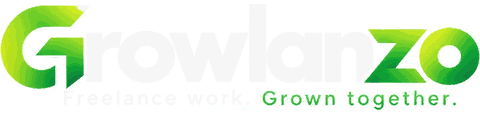
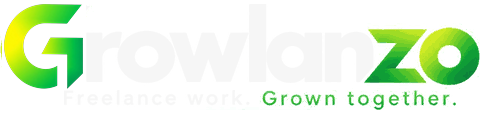
feat(brand): install the final Growlanzo mark and contact address
The supplied artwork is the finished "G" — a single yellow→green gradient,
where the shipped lockups still carried the older faceted glyph. The mark is now
the source of the app icon set (32/64/192/512, opaque apple-touch plate), the
PWA manifest, the social card, and the G inside all four wordmark/full lockups;
the letterforms around it are untouched, so header geometry and intrinsic sizes
stay identical. Cache-busters move to v7 so returning visitors see it.

The brand mailbox is now growlanzo.own@gmail.com — updated in the footer, legal
pages, report form, unsubscribe page, every Supabase function (including the
Brevo sender default) and the docs that quote it.

🤖 Generated with Codebuff

Changed region(s): [[0.0, 0.0265, 0.1875, 0.7965]]

diff --git a/supabase/functions/email-notifications/index.ts b/supabase/functions/email-notifications/index.ts
@@ -206,7 +206,7 @@ function buildWithdrawalFailedHtml(name: string, amount: number, reason: string)
       </td></tr>
     </table>
     <p style="font-size: 14px; color: #64748b; line-height: 1.7; margin: 0;">
-      If the issue persists, please <a href="mailto:growlancer.own@gmail.com" style="color: #14861f; font-weight: 600;">contact support</a>.
+      If the issue persists, please <a href="mailto:growlanzo.own@gmail.com" style="color: #14861f; font-weight: 600;">contact support</a>.
     </p>`
   return baseEmailHtml('Withdrawal Failed 💔', body)
 }
@@ -280,7 +280,7 @@ function buildDisputeResolvedHtml(name: string, disputeId: string, resolution: s
       </td></tr>
     </table>
     <p style="font-size: 14px; color: #64748b; line-height: 1.7; margin: 0;">
-      If you have any questions about this resolution, please <a href="mailto:growlancer.own@gmail.com" style="color: #14861f; font-weight: 600;">contact our support team</a>.
+      If you have any questions about this resolution, please <a href="mailto:growlanzo.own@gmail.com" style="color: #14861f; font-weight: 600;">contact our support team</a>.
     </p>`
   return baseEmailHtml(isFavorable ? 'Dispute Resolved ✅' : 'Dispute Updated 💙', body)
 }
@@ -436,7 +436,7 @@ function buildAccountSuspendedHtml(name: string, reason?: string): string {
       During this time, you will not be able to access your dashboard, submit proposals, or communicate with clients.
     </p>
     <p style="font-size: 14px; color: #64748b; line-height: 1.7; margin: 0;">
-      If you believe this was done in error or would like more information, please <a href="mailto:growlancer.own@gmail.com" style="color: #14861f; font-weight: 600;">contact our support team</a>.
+      If you believe this was done in error or would like more information, please <a href="mailto:growlanzo.own@gmail.com" style="color: #14861f; font-weight: 600;">contact our support team</a>.
     </p>`
   return baseEmailHtml('Account Suspended ⚠', body)
 }

diff --git a/supabase/functions/admin-data/index.ts b/supabase/functions/admin-data/index.ts
@@ -659,7 +659,7 @@ Deno.serve(async (req) => {
 
     // ─── POST: test_email — sends a live Brevo test email ──
     if (req.method === 'POST' && action === 'test_email') {
-      const testTo = body?.to || 'growlancer.own@gmail.com'
+      const testTo = body?.to || 'growlanzo.own@gmail.com'
       const sent = await sendNotificationEmail('Growlanzo Test Email ✅', '<p>This is a test email from Growlanzo via Brevo.</p>', { email: testTo, name: 'Test' })
       return new Response(JSON.stringify({ success: sent, error: sent ? undefined : 'Email delivery failed (Brevo not configured or API error)' }), {
         status: 200, headers: { ...corsHeaders, 'Content-Type': 'application/json' },
@@ -676,7 +676,7 @@ Deno.serve(async (req) => {
         });
       }
 
-      const ADMIN_EMAIL = 'growlancer.own@gmail.com';
+      const ADMIN_EMAIL = 'growlanzo.own@gmail.com';
 
       // Build details table HTML
       let detailsHtml = '';
@@ -843,7 +843,7 @@ Deno.serve(async (req) => {
             <tr>
               <td style="padding: 8px 16px; background: #faf5ff; border-radius: 8px;">
                 <p style="font-size: 11px; color: #6d28d9; margin: 0;">
-                  🌐 ${APP_URL} &nbsp;|&nbsp; ✉ growlancer.own@gmail.com
+                  🌐 ${APP_URL} &nbsp;|&nbsp; ✉ growlanzo.own@gmail.com
                 </p>
               </td>
             </tr>
@@ -916,7 +916,7 @@ Deno.serve(async (req) => {
             <tr>
               <td style="padding: 8px 16px; background: #f1fcef; border-radius: 8px;">
                 <p style="font-size: 11px; color: #10591a; margin: 0;">
-                  🌐 ${APP_URL} &nbsp;|&nbsp; ✉ growlancer.own@gmail.com
+                  🌐 ${APP_URL} &nbsp;|&nbsp; ✉ growlanzo.own@gmail.com
                 </p>
               </td>
             </tr>

diff --git a/src/pages/TermsPage.tsx b/src/pages/TermsPage.tsx
@@ -337,7 +337,7 @@ const termsSections: Section[] = [
             These Terms of Service shall be governed by and construed in accordance with the laws of India, without regard to conflict of law principles.
           </p>
           <p className="text-slate-600 leading-relaxed mb-2">
-            Growlanzo is operated by <strong>Muhammad (Founder &amp; CEO)</strong>, India. For legal notices, grievances, or complaints, contact our grievance officer at <a href="mailto:growlancer.own@gmail.com" className="text-emerald-600 font-medium hover:underline">growlancer.own@gmail.com</a>. We acknowledge grievances within 24 hours and aim to resolve them within 15 days, in line with the Information Technology (Intermediary Guidelines and Digital Media Ethics Code) Rules, 2021.
+            Growlanzo is operated by <strong>Muhammad (Founder &amp; CEO)</strong>, India. For legal notices, grievances, or complaints, contact our grievance officer at <a href="mailto:growlanzo.own@gmail.com" className="text-emerald-600 font-medium hover:underline">growlanzo.own@gmail.com</a>. We acknowledge grievances within 24 hours and aim to resolve them within 15 days, in line with the Information Technology (Intermediary Guidelines and Digital Media Ethics Code) Rules, 2021.
           </p>
           <p className="text-slate-600 leading-relaxed mb-2">
             If any provision of these Terms is deemed invalid or unenforceable, that specific clause shall be severed, and the remaining provisions shall continue in full force and effect.

diff --git a/pages/+Head.tsx b/pages/+Head.tsx
@@ -3,11 +3,13 @@ import React from 'react';
 export default function Head() {
   return (
     <>
-      {/* ── Favicon + app icon — the Growlanzo ring mark (public/UpdatedLogo.*).
-           `?v=` busts the cached copy some returning visitors still hold. ── */}
-      <link rel="icon" type="image/webp" sizes="32x32" href="/UpdatedLogo.webp?v=6" />
-      <link rel="apple-touch-icon" sizes="180x180" href="/UpdatedLogo.png?v=6" />
-      <link rel="shortcut icon" href="/UpdatedLogo.png?v=6" />
+      {/* ── Favicon + app icon — the final Growlanzo "G" (public/UpdatedLogo.*,
+           public/apple-touch-icon.png). `?v=` busts the cached copy some
+           returning visitors still hold, so a rebrand actually reaches them. ── */}
+      <link rel="icon" type="image/webp" sizes="32x32" href="/UpdatedLogo.webp?v=7" />
+      <link rel="icon" type="image/png" sizes="64x64" href="/favicon-growlanzo.png?v=7" />
+      <link rel="apple-touch-icon" sizes="180x180" href="/apple-touch-icon.png?v=7" />
+      <link rel="shortcut icon" href="/UpdatedLogo.png?v=7" />
 
       {/* ── Mobile viewport — CRITICAL: without this, phones fall back to the
           980px desktop layout viewport and the whole site renders zoomed-out

diff --git a/supabase/functions/internship-applications/index.ts b/supabase/functions/internship-applications/index.ts
@@ -1,7 +1,7 @@
 // Internship Applications Edge Function
 // Handles new internship application submissions & status updates
 // Sends real email notifications (email service currently disabled):
-//   1) Admin notification to growlancer.own@gmail.com
+//   1) Admin notification to growlanzo.own@gmail.com
 //   2) Confirmation email to applicant
 //   3) Status change emails (shortlisted, interview, selected, rejected)
 
@@ -12,7 +12,7 @@ import { SITE_URL } from '../_shared/site.ts'
 import { featureDisabledResponse, isFeatureEnabled } from '../_shared/features.ts'
 
 // Transactional email via Brevo (shared helper).
-const ADMIN_EMAIL = 'growlancer.own@gmail.com'
+const ADMIN_EMAIL = 'growlanzo.own@gmail.com'
 const APP_URL = SITE_URL
 
 const GITHUB_URL = 'https://github.com/Mrkhan154212/Growlancer'
@@ -229,7 +229,7 @@ function buildReceivedEmailHtml(data: ApplicationData): string {
   return baseEmailHtml('Application Received Successfully', body)
 }
 
-/** Admin Notification — sent to growlancer.own@gmail.com */
+/** Admin Notification — sent to growlanzo.own@gmail.com */
 function buildAdminEmailHtml(data: ApplicationData): string {
   const escapedName = escapeHtml(data.full_name);
   const escapedEmail = escapeHtml(data.email);

diff --git a/src/pages/PrivacyPage.tsx b/src/pages/PrivacyPage.tsx
@@ -216,7 +216,7 @@ const privacySections: Section[] = [
       content: (
         <>
           <p className="text-slate-600 leading-relaxed mb-2">
-            If you have questions, comments, or seek to file an appeal regarding the processing of data in a disputed contract workspace, please contact our designated Data Protection Officer (DPO): <strong>Muhammad (Founder &amp; CEO)</strong> at <a href="mailto:growlancer.own@gmail.com" className="text-emerald-600 font-medium hover:underline">growlancer.own@gmail.com</a>. We acknowledge privacy requests within 24 hours and aim to resolve them within 15 days.
+            If you have questions, comments, or seek to file an appeal regarding the processing of data in a disputed contract workspace, please contact our designated Data Protection Officer (DPO): <strong>Muhammad (Founder &amp; CEO)</strong> at <a href="mailto:growlanzo.own@gmail.com" className="text-emerald-600 font-medium hover:underline">growlanzo.own@gmail.com</a>. We acknowledge privacy requests within 24 hours and aim to resolve them within 15 days.
           </p>
           <div className="bg-slate-900 rounded-xl p-3 text-white flex flex-col sm:flex-row items-center justify-between gap-3 mt-6">
             <div>

diff --git a/src/test/launchSurfaceFixes.test.ts b/src/test/launchSurfaceFixes.test.ts
@@ -19,8 +19,8 @@ const OAUTH = read('src/components/OAuthButtons.tsx');
 const FOOTER = read('src/components/SiteFooter.tsx');
 
 describe('support mailbox', () => {
-  it('the footer shows growlancer.own@gmail.com', () => {
-    expect(FOOTER).toContain('growlancer.own@gmail.com');
+  it('the footer shows growlanzo.own@gmail.com', () => {
+    expect(FOOTER).toContain('growlanzo.own@gmail.com');
     expect(FOOTER).not.toContain('support@growlanzo.com');
   });
 
@@ -31,14 +31,14 @@ describe('support mailbox', () => {
   ]) {
     it(`${page} points at the Gmail inbox`, () => {
       const src = read(page);
-      expect(src).toContain('growlancer.own@gmail.com');
+      expect(src).toContain('growlanzo.own@gmail.com');
       expect(src).not.toContain('support@growlanzo.com');
     });
   }
 
   it('transactional emails use the Gmail mailbox', () => {
     const src = read('supabase/functions/email-notifications/index.ts');
-    expect(src).toContain('mailto:growlancer.own@gmail.com');
+    expect(src).toContain('mailto:growlanzo.own@gmail.com');
     expect(src).not.toContain('support@growlanzo.com');
   });
 });

diff --git a/src/pages/ReportFeedbackPage.tsx b/src/pages/ReportFeedbackPage.tsx
@@ -222,7 +222,7 @@ export function ReportFeedbackPage() {
                 </div>
                 <div>
                   <h2 className="font-bold text-slate-900 text-sm">Direct to Team</h2>
-                  <p className="text-xs text-slate-500">Sent to growlancer.own@gmail.com</p>
+                  <p className="text-xs text-slate-500">Sent to growlanzo.own@gmail.com</p>
                 </div>
               </div>
             </div>
@@ -248,11 +248,11 @@ export function ReportFeedbackPage() {
                 You can always write to us directly — we read every message.
               </p>
               <a
-                href="mailto:growlancer.own@gmail.com"
+                href="mailto:growlanzo.own@gmail.com"
                 className="inline-flex items-center gap-3 px-4 py-2 bg-white border border-emerald-200 text-emerald-700 rounded-xl text-sm font-semibold hover:bg-emerald-50 transition-colors"
               >
                 <Mail className="w-4 h-4" />
-                growlancer.own@gmail.com
+                growlanzo.own@gmail.com
               </a>
             </div>
           </div>

diff --git a/supabase/functions/submit-report/index.ts b/supabase/functions/submit-report/index.ts
@@ -1,14 +1,14 @@
 // Submit Report / Feedback Edge Function
 // Users report bugs, request features, or share feedback. Each report is:
 //   1) Stored in public.user_reports (service role — RLS still guards the table)
-//   2) Emailed to the company inbox (growlancer.own@gmail.com) via Brevo when
+//   2) Emailed to the company inbox (growlanzo.own@gmail.com) via Brevo when
 //      BREVO_API_KEY is configured (graceful no-op fallback otherwise)
 import { createClient } from 'https://esm.sh/@supabase/supabase-js@2'
 import { sendEmail } from '../_shared/brevo.ts'
 import { getCorsHeaders } from '../_shared/cors.ts'
 import { SITE_URL } from '../_shared/site.ts'
 
-const REPORT_EMAIL = Deno.env.get('REPORT_EMAIL') ?? 'growlancer.own@gmail.com'
+const REPORT_EMAIL = Deno.env.get('REPORT_EMAIL') ?? 'growlanzo.own@gmail.com'
 const APP_URL = SITE_URL
 
 // ─── HTML Escape Helper ──────────────────────────────────────────────────────

diff --git a/supabase/functions/_shared/brevo.ts b/supabase/functions/_shared/brevo.ts
@@ -43,10 +43,10 @@ export async function sendEmail(opts: SendEmailOptions): Promise<boolean> {
   }
 
   // IMPORTANT: must be a sender VERIFIED in the Brevo account (otherwise Gmail
-  // drops / spams the mail). Verified sender: growlancer.own@gmail.com.
+  // drops / spams the mail). Verified sender: growlanzo.own@gmail.com.
   // If you want a different address (e.g. noreply@...), verify it in Brevo
   // Dashboard > Senders first, then set EMAIL_FROM to it.
-  const fromRaw = Deno.env.get('EMAIL_FROM') ?? 'Growlanzo <growlancer.own@gmail.com>';
+  const fromRaw = Deno.env.get('EMAIL_FROM') ?? 'Growlanzo <growlanzo.own@gmail.com>';
   const replyTo = opts.replyTo ?? Deno.env.get('EMAIL_REPLY_TO');
 
   // Parse "Name <email>" into Brevo's { name, email } shape.

diff --git a/src/components/SiteFooter.tsx b/src/components/SiteFooter.tsx
@@ -99,8 +99,8 @@ export function SiteFooter({ onOpenSignup }: SiteFooterProps) {
               </div>
               <div className="mt-1 text-xs text-slate-400">
                 Operated from India · Grievances:{' '}
-                <a href="mailto:growlancer.own@gmail.com" className="text-slate-500 hover:text-emerald-600 transition-colors">
-                  growlancer.own@gmail.com
+                <a href="mailto:growlanzo.own@gmail.com" className="text-slate-500 hover:text-emerald-600 transition-colors">
+                  growlanzo.own@gmail.com
                 </a>
                 {' '}— acknowledged within 24 hours, resolved within 15 days.
               </div>

diff --git a/src/pages/CookiesPage.tsx b/src/pages/CookiesPage.tsx
@@ -100,7 +100,7 @@ export function CookiesPage() {
             <h2 className="text-2xl font-bold text-slate-900 mb-2">Contact</h2>
             <p className="text-slate-600">
               Questions about cookies or this policy? Email{' '}
-              <a href="mailto:growlancer.own@gmail.com" className="text-emerald-600 hover:underline">growlancer.own@gmail.com</a>{' '}
+              <a href="mailto:growlanzo.own@gmail.com" className="text-emerald-600 hover:underline">growlanzo.own@gmail.com</a>{' '}
               — we acknowledge requests within 24 hours and aim to resolve them within 15 days.
             </p>
           </div>
